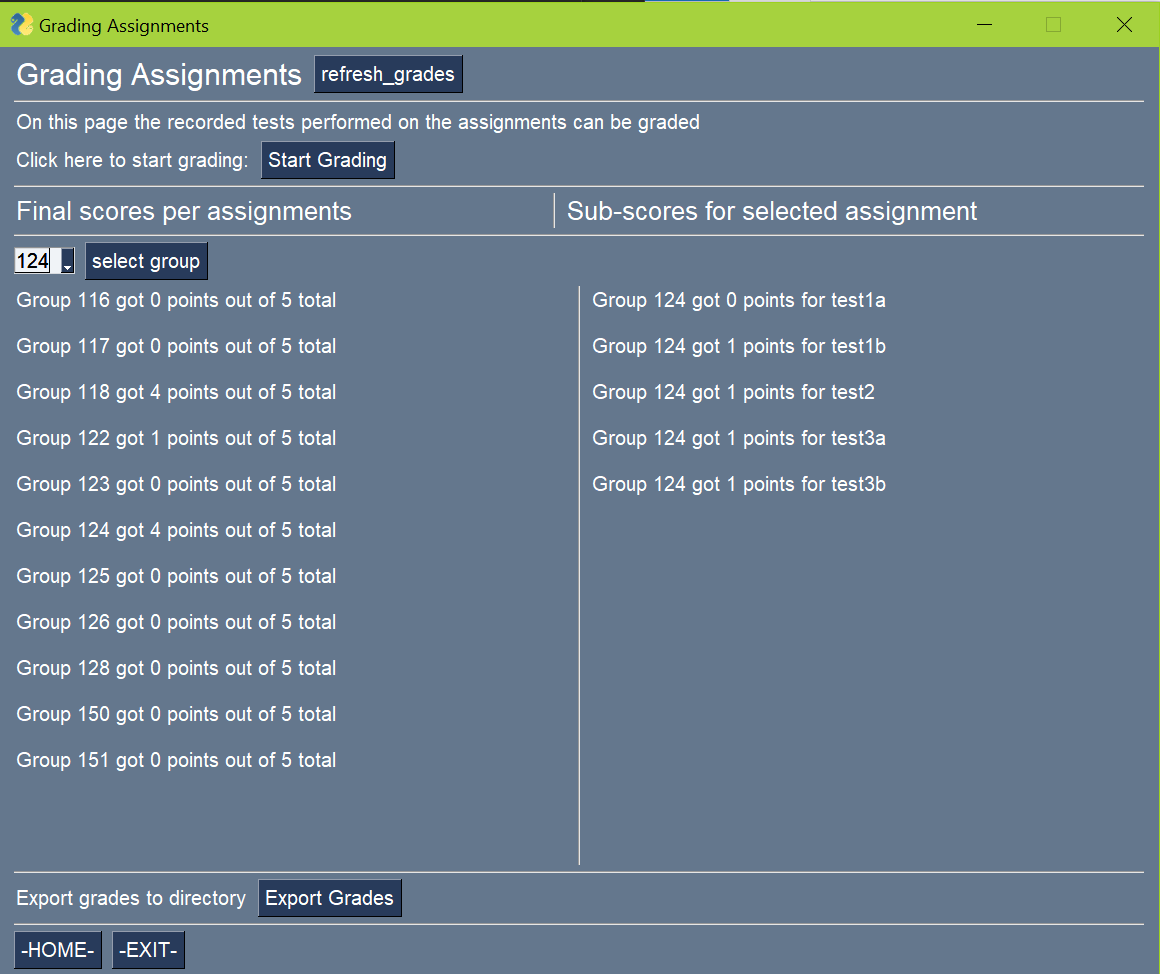
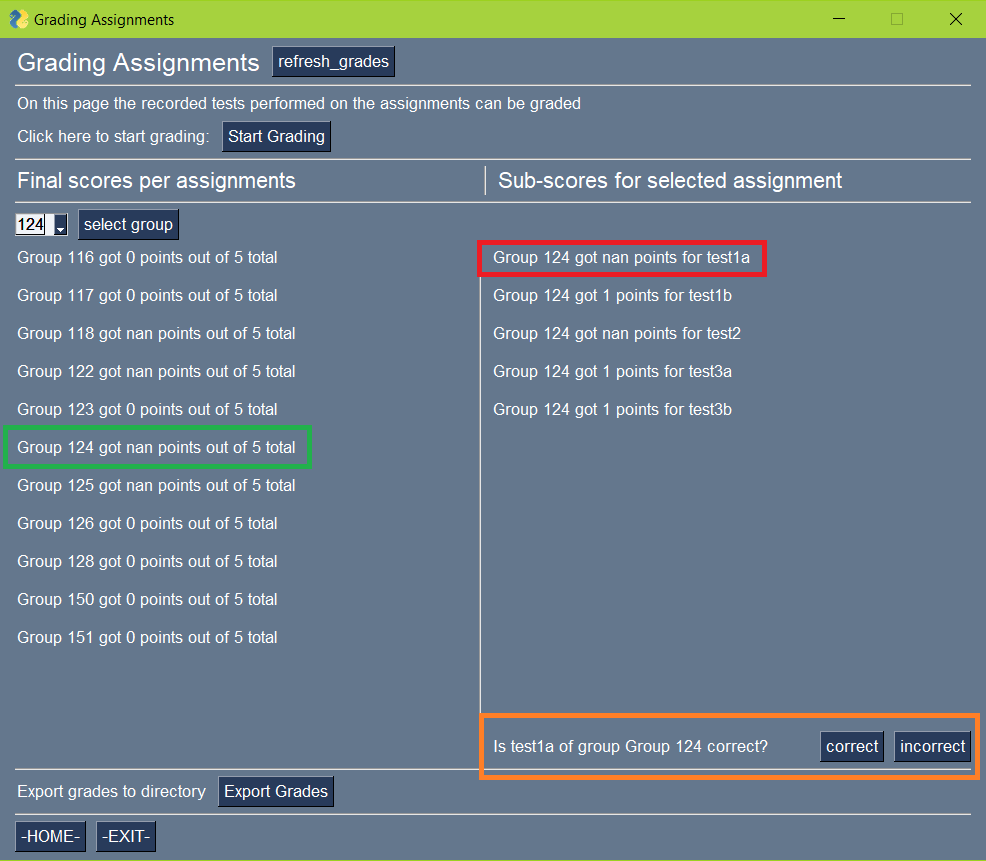
readme.md elaborated

Changed region(s): [[0.0, 0.0, 1.0, 0.7851], [0.0, 0.8153, 1.0, 1.0], [0.4868, 0.2718, 0.7911, 0.5134]]

diff --git a/README.md b/README.md
@@ -6,8 +6,13 @@ This grading tool is developed for a Bachelor End Project at the TU/e. This auto
 
 ![Grader Tool GUI](images_readme/home.PNG)
 ## Installation
-TODO: add install package.
-(Required packages)
+- Install a python IDE (Pycharm is used to develop this project) download link: https://www.jetbrains.com/pycharm/download/#section=windows 
+- Make sure Python is correctly installed on your PC (Python 3.9 is used to develop this project) 
+download link: https://www.python.org/downloads/release/python-395/
+  
+- Make sure to download all dependencies/libraries, either using pip in the command prompt or within the IDE itself
+- Download the separate zip-file containing all the trained machine learning models
+- Clone the project from this GitHub page, or use the installer: ....
 ## Configuration
 This chapter is split into two parts, as this tool can be used for grading. But this tool also needs further improvements to make the grading experience and performance even better.
 ### Use for grading
@@ -16,6 +21,9 @@ Follow the steps for the installation and run the grader.exe (to be added). Afte
 ### Use for development
 For development one needs an IDE to work with the python scripts. This project is made with PyCharm, but you are free to use whatever you want. The seperate files are made as structured and clean as possible to make it easier to work with.
 
+For development one can adjust the project to improve the performance or handlability of the project. Furthermore one can use the TensorFlowTrainingModle.ipynb file inside the TensorFlowFiles folder to improve the machine learning models or train new models.
+This file is made in google colab, the machine learning models are also trained in this environment (https://colab.research.google.com). In google colab one can select the runtime type, which allows acces to powerful GPU's to enhance the training performance for the algorithms.
+The google colab file should be self explanatory to use and improve, furthermore google colab and tensorflow is very well documented.
 ## Usage
 First the guide for the GUI will be discussed. When running the application, the Home screen listed in the figure above will pop up. From here you have the following options:
 1. Directory Setup
@@ -41,12 +49,18 @@ Carefully read the notes listed in this GUI to make sure no problems are caused 
 
 In this window press start grading, to start the grading process. After this is finished, the final grades will pop up on the left. To see the scores for the individual tests per assignments, select a group on the left and the scores will show on the right as seen in the image. If one thinks it is necessary, you can export the grades to a text file using the Export Grades button.
 
+As seen in the green and red rectangle, some scores still have 'nan' as a score, which means the algorithm could not predict these tests with a high enough accuracy. In the orange rectangle the question is asked whether these tests are correct or incorrect. To answer this question, navigate to the all_simulations folder in the chosen directory and select the specified video. Play back the video and see if the test is computed correct or incorrect. Click the corresponding button and the values will be updated as seen in the image of the GUI below.
 
+![Grader Tool Grader Updated Grades](images_readme/grader2.PNG)
 
 
 
 ## Points of improvement
 
-
+- First of all, the simulation execution process is not ideal. This takes about 2 hours to complete for 11 assignments. I think this should be made shorter, the minimal possible time to achieve is about 30 minutes. The way to tackle this problem is by defining another method of executing the tests. Now the program has to restart TwinCat and Unity for every test for every group, which means it has to do this 55 times.
+- Furthermore it was seen that the trained machine learning model for test2 didn't show as nice of results as the other trained models. This is probably because this test was harder to judge. This is the test that tests the correct order of products. 
+This problem can possibly be tackled by adding more data (which is hard in this case as data is scarce and there should be data left to test and validate the models). Another way to tackle this problem is by using another shape of machine learning model i.e. different layers, different numbers of filters, etc.
+  
+- At last, tests for more aspects of the system should be added, so the grading tool can grade larger parts of the assignments. 
 
 
